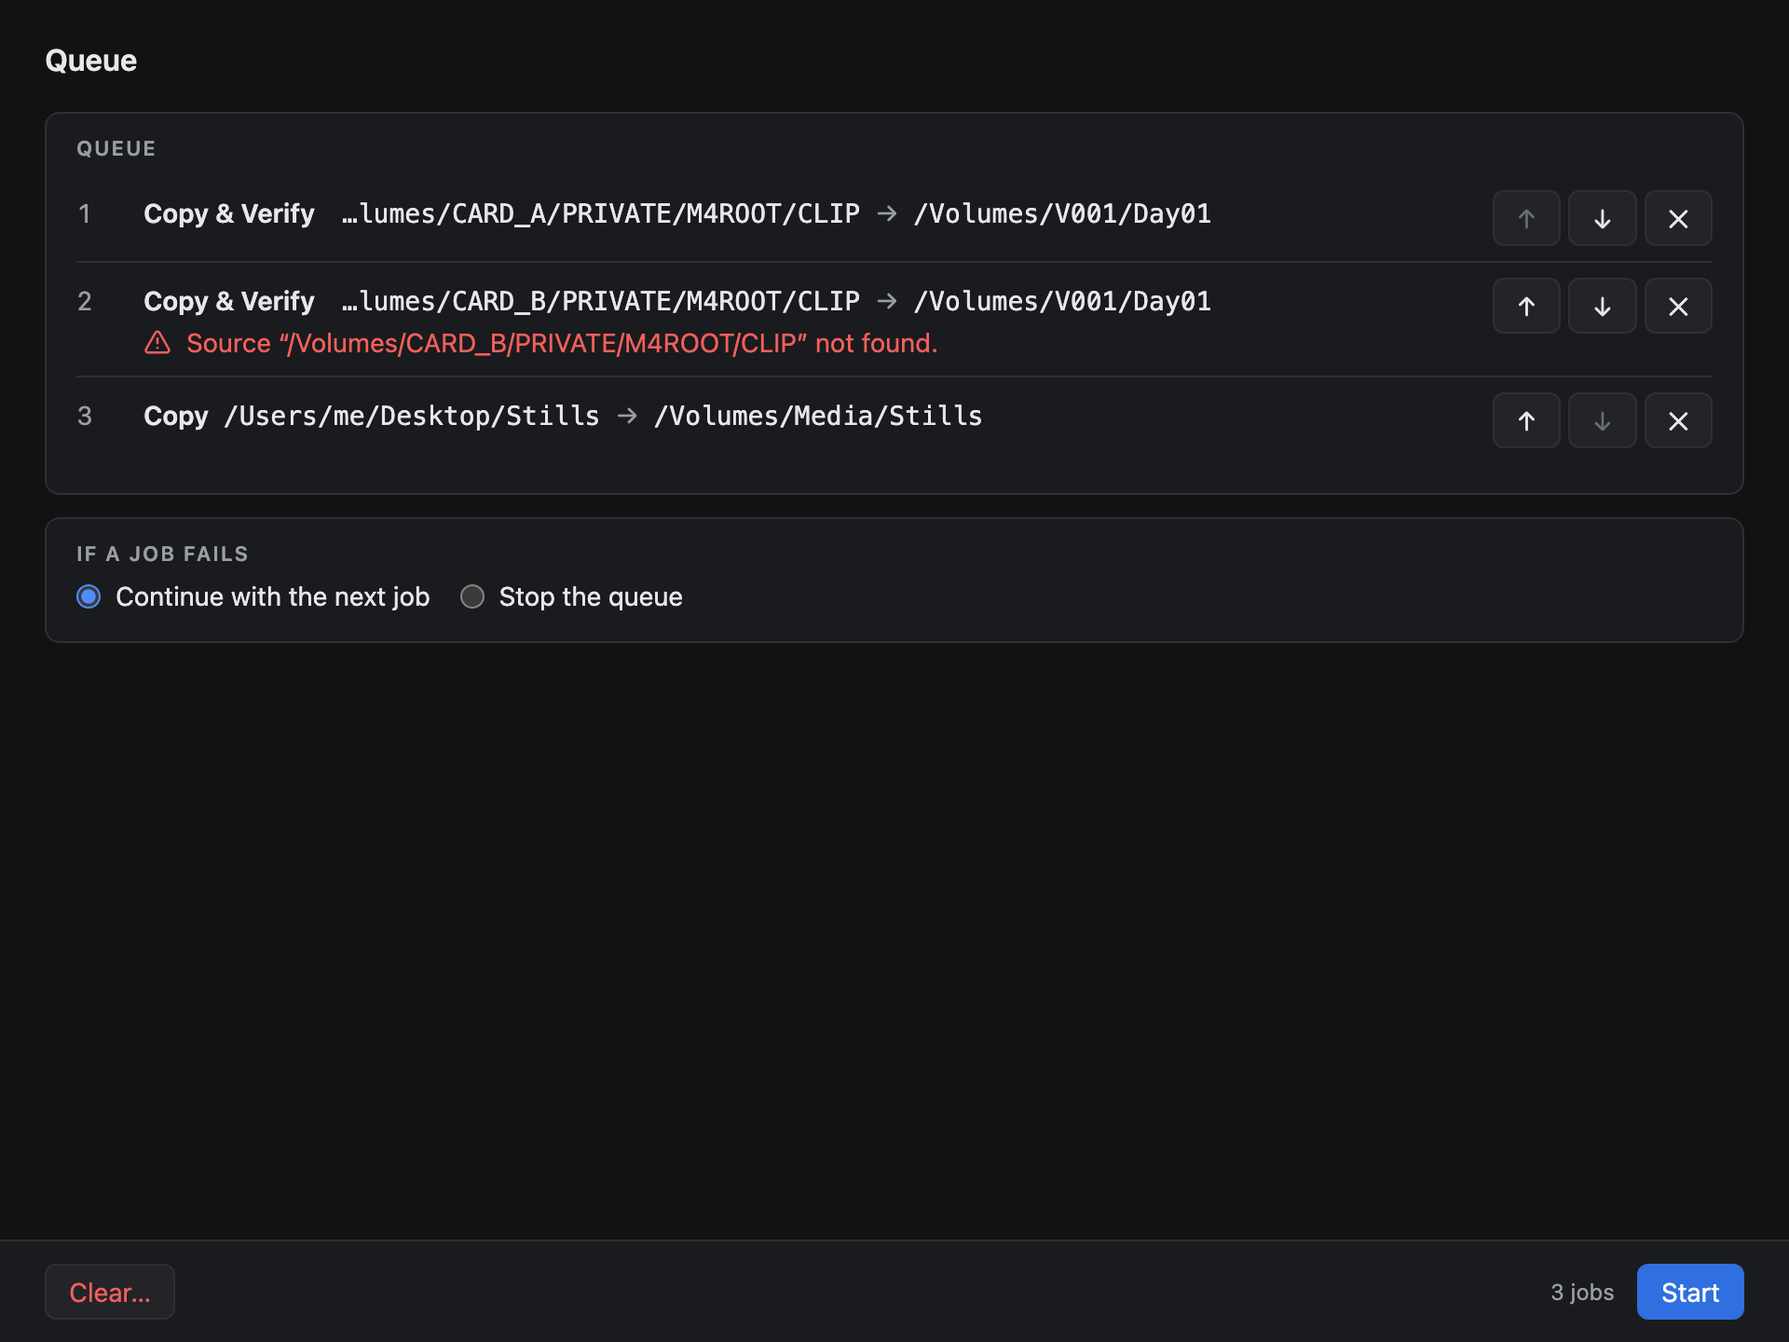
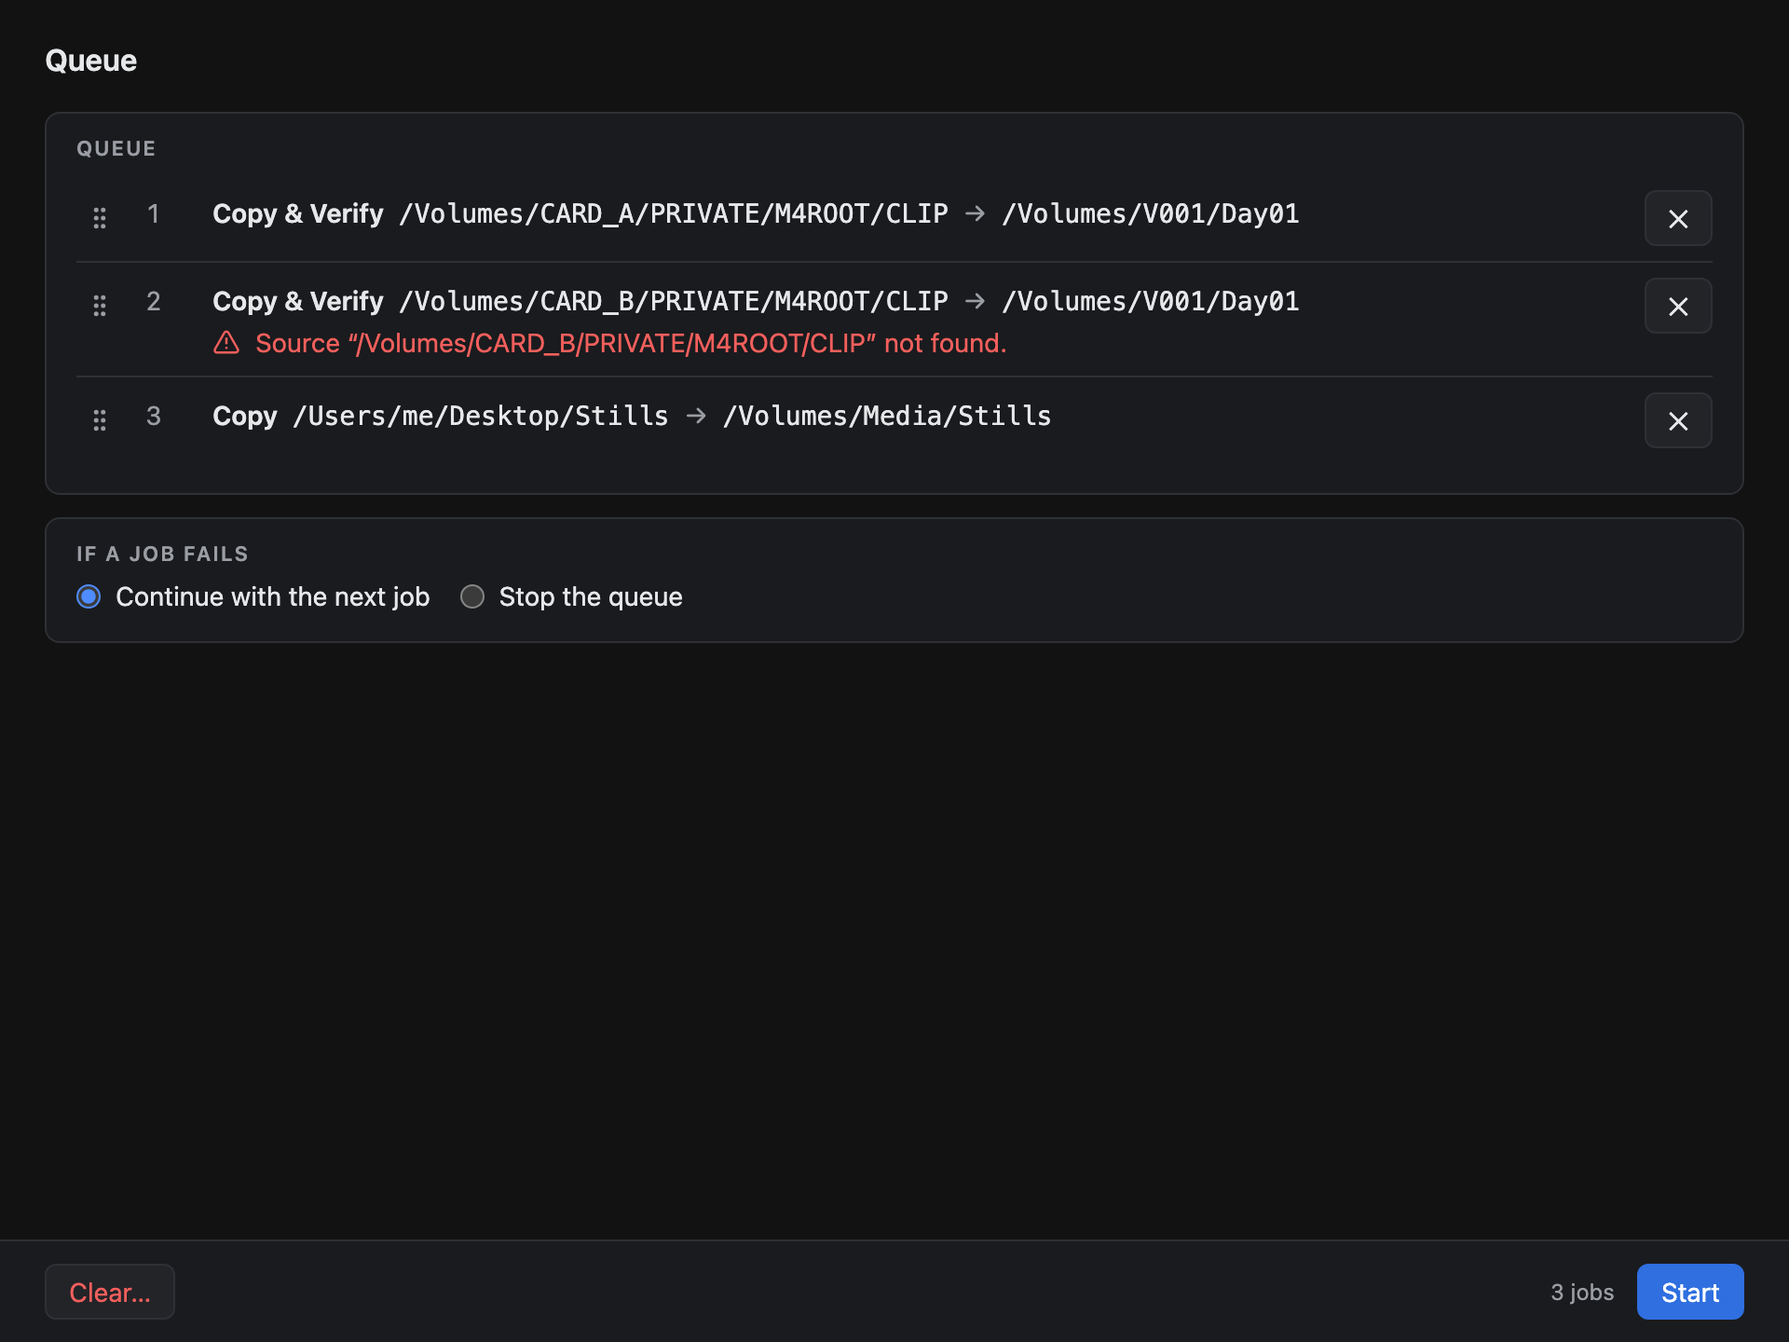
feat(queue): reorder jobs by dragging
Each queued job has a grip: dragging it moves the job, the other jobs
making room, and dropping saves the order. The ↑/↓ buttons are gone. From
the keyboard (and VoiceOver) the grip takes focus and ⌥↑ / ⌥↓ moves the
job; its new place is announced. Built on pointer events, so Tauri's own
file drop can't get in the way; help tags hide while a job is carried.

Closes #205

Changed region(s): [[0.0625, 0.2188, 0.7188, 0.3438], [0.0938, 0.1562, 0.7188, 0.1875]]

diff --git a/ui/src/components/QueueScreen.svelte b/ui/src/components/QueueScreen.svelte
@@ -60,14 +60,77 @@
     }
   }
 
-  /** Moves a job and keeps the focus on it, in its new row (for the keyboard and VoiceOver). */
+  /** What VoiceOver says after a move (#205). */
+  let announced = $state("");
+
+  /** Moves a job and keeps the focus on its grip, in its new row (for the keyboard and
+   *  VoiceOver), and says where it went. */
   async function move(from: number, to: number) {
     if (!(await byPlace(() => api.moveInQueue(from, to)))) return;
     await tick();
-    const row = document.querySelectorAll<HTMLElement>(".job")[to];
-    const buttons = [...(row?.querySelectorAll<HTMLButtonElement>("button") ?? [])];
-    const same = buttons[to > from ? 1 : 0];
-    (same && !same.disabled ? same : buttons.find((b) => !b.disabled))?.focus();
+    document.querySelectorAll<HTMLElement>("[data-grip]")[to]?.focus();
+    announced = t("queue.moved", { position: to + 1, count });
+  }
+
+  /** A row being dragged by its grip (#205): where it started, how far it went, where it
+   *  would land, and the rows as they were laid out when it started. */
+  type Drag = { from: number; startY: number; dy: number; to: number; rows: DOMRect[]; started: boolean };
+  let drag: Drag | null = $state(null);
+
+  /** Pixels a press moves before it's a drag, not a click. */
+  const SLOP = 4;
+
+  function grab(event: PointerEvent, from: number) {
+    if (event.button !== 0 || count < 2) return;
+    (event.currentTarget as HTMLElement).setPointerCapture?.(event.pointerId);
+    const rows = [...document.querySelectorAll<HTMLElement>(".job")].map((row) => row.getBoundingClientRect());
+    drag = { from, startY: event.clientY, dy: 0, to: from, rows, started: false };
+  }
+
+  function follow(event: PointerEvent) {
+    if (!drag) return;
+    const dy = event.clientY - drag.startY;
+    const { from, rows } = drag;
+    // It lands past every row whose middle its own middle has passed.
+    const middle = (rows[from].top + rows[from].bottom) / 2 + dy;
+    let to = from;
+    rows.forEach((row, j) => {
+      const m = (row.top + row.bottom) / 2;
+      if (j < from && middle < m) to = Math.min(to, j);
+      if (j > from && middle > m) to = Math.max(to, j);
+    });
+    drag = { ...drag, dy, to, started: drag.started || Math.abs(dy) > SLOP };
+  }
+
+  async function drop() {
+    const done = drag;
+    drag = null;
+    if (done?.started && done.to !== done.from) await move(done.from, done.to);
+  }
+
+  /** How far row `j` is shifted while another is dragged over it, or the dragged row itself. */
+  function shift(j: number): number {
+    if (!drag?.started) return 0;
+    const { from, to, dy, rows } = drag;
+    if (j === from) return dy;
+    const height = rows[from].height;
+    if (from < to && j > from && j <= to) return -height;
+    if (to < from && j >= to && j < from) return height;
+    return 0;
+  }
+
+  /** ⌥↑ / ⌥↓ move the job; Esc lets go of a drag. */
+  function key(event: KeyboardEvent, i: number) {
+    if (event.key === "Escape" && drag) {
+      event.preventDefault();
+      drag = null;
+      return;
+    }
+    if (!event.altKey) return;
+    const to = event.key === "ArrowUp" ? i - 1 : event.key === "ArrowDown" ? i + 1 : -1;
+    if (to < 0 || to >= count) return;
+    event.preventDefault();
+    void move(i, to);
   }
 
   async function clear() {
@@ -91,9 +154,27 @@
       </EmptyState>
     {:else}
       <!-- role="list": Safari drops list semantics when the bullets are hidden. -->
-      <ol class="jobs" role="list" aria-label={t("queue.jobs")}>
+      <ol class="jobs" class:dragging={drag?.started} role="list" aria-label={t("queue.jobs")}>
         {#each queue.jobs as job, i (i)}
-          <li class="job">
+          <li
+            class="job"
+            class:dragged={drag?.started && drag.from === i}
+            class:settling={drag?.started && drag.from !== i}
+            style:transform={shift(i) ? `translateY(${shift(i)}px)` : undefined}
+          >
+            <span class="grip">
+              <Button
+                data-grip
+                icon="grip"
+                aria-label={t("queue.grip", { number: i + 1 })}
+                help={t("queue.gripHelp")}
+                onpointerdown={(e: PointerEvent) => grab(e, i)}
+                onpointermove={follow}
+                onpointerup={drop}
+                onpointercancel={() => (drag = null)}
+                onkeydown={(e: KeyboardEvent) => key(e, i)}>{""}</Button
+              >
+            </span>
             <span class="number">{i + 1}</span>
             <div class="what">
               {#if job.supported && job.kind === "check"}
@@ -115,13 +196,12 @@
               {#if job.lastError}<Notice tone="danger">{say(job.lastError)}</Notice>{/if}
             </div>
             <div class="buttons">
-              <Button aria-label={t("queue.moveUp", { number: i + 1 })} disabled={i === 0} onclick={() => move(i, i - 1)}>↑</Button>
-              <Button aria-label={t("queue.moveDown", { number: i + 1 })} disabled={i === count - 1} onclick={() => move(i, i + 1)}>↓</Button>
               <Button aria-label={t("queue.remove", { number: i + 1 })} onclick={() => byPlace(() => api.removeFromQueue(i))}>✕</Button>
             </div>
           </li>
         {/each}
       </ol>
+      <p class="visually-hidden" aria-live="polite">{announced}</p>
     {/if}
   </Section>
 
@@ -173,7 +253,7 @@
 
   .job {
     display: grid;
-    grid-template-columns: 24px minmax(0, 1fr) auto;
+    grid-template-columns: auto 24px minmax(0, 1fr) auto;
     gap: var(--space-3);
     align-items: start;
     padding: var(--space-2) 0;
@@ -181,6 +261,42 @@
 
   .job + .job {
     border-top: 1px solid var(--border);
+  }
+
+  /* The row being dragged follows the pointer, above the others; they make room for it. */
+  .job.dragged {
+    position: relative;
+    z-index: 1;
+    background: var(--surface-raised);
+    box-shadow: 0 4px 16px rgb(0 0 0 / 0.35);
+  }
+
+  .job.settling {
+    transition: transform 120ms ease;
+  }
+
+  /* A quiet handle: the icon alone, an outline when the pointer or the focus is on it. */
+  .grip :global(.button) {
+    background: none;
+    border-color: transparent;
+    color: var(--text-muted);
+    padding: 0 var(--space-1);
+    cursor: grab;
+    touch-action: none;
+  }
+
+  .grip :global(.button:hover) {
+    border-color: var(--border);
+    color: var(--text);
+  }
+
+  .job.dragged .grip :global(.button) {
+    cursor: grabbing;
+  }
+
+  /* No help tags while a job is carried: they'd sit over the rows it moves through. */
+  .jobs.dragging :global(.tip) {
+    display: none;
   }
 
   .number {

diff --git a/ui/src/components/QueueScreen.test.ts b/ui/src/components/QueueScreen.test.ts
@@ -49,13 +49,63 @@ describe("QueueScreen", () => {
     expect(within(row).queryByText("→")).toBeNull();
   });
 
-  test("jobs move and are removed", async () => {
-    const { api } = show();
-    await fireEvent.click(screen.getByRole("button", { name: "Move job 1 down" }));
-    expect(api.moveInQueue).toHaveBeenCalledWith(0, 1);
+  // #205: jobs are reordered by dragging their grip, or with ⌥↑ / ⌥↓ on it.
+  const three = () =>
+    queueView({
+      jobs: [
+        queuedJob(),
+        queuedJob({ source: raw("/Volumes/CARD_B/DCIM"), verify: false }),
+        queuedJob({ source: raw("/Volumes/CARD_C/DCIM") }),
+      ],
+    });
+
+  /** Rows 40 px tall, one under the other, as the window lays them out. */
+  function laidOut() {
+    document.querySelectorAll<HTMLElement>(".job").forEach((row, i) => {
+      row.getBoundingClientRect = () => ({ top: i * 40, bottom: i * 40 + 40, height: 40, left: 0, right: 600, width: 600, x: 0, y: i * 40, toJSON: () => ({}) });
+    });
+  }
+
+  test("a job is dragged by its grip to another place; no arrow buttons (#205)", async () => {
+    const { api } = show(three());
+    laidOut();
+    expect(screen.queryByRole("button", { name: /up$|down$/ })).toBeNull();
+    const grip = screen.getByRole("button", { name: "Move job 1" });
+    await fireEvent.pointerDown(grip, { button: 0, pointerId: 1, clientY: 20 });
+    await fireEvent.pointerMove(grip, { pointerId: 1, clientY: 60 });
+    await fireEvent.pointerMove(grip, { pointerId: 1, clientY: 105 });
+    await fireEvent.pointerUp(grip, { pointerId: 1, clientY: 105 });
+    expect(api.moveInQueue).toHaveBeenCalledWith(0, 2);
     await fireEvent.click(screen.getByRole("button", { name: "Remove job 2" }));
     expect(api.removeFromQueue).toHaveBeenCalledWith(1);
-    expect(screen.getByRole("button", { name: "Move job 1 up" })).toHaveProperty("disabled", true);
+  });
+
+  test("a press without a drag, or a drag let go of with Esc, moves nothing (#205)", async () => {
+    const { api } = show(three());
+    laidOut();
+    const grip = screen.getByRole("button", { name: "Move job 1" });
+    await fireEvent.pointerDown(grip, { button: 0, pointerId: 1, clientY: 20 });
+    await fireEvent.pointerUp(grip, { pointerId: 1, clientY: 21 });
+    await fireEvent.pointerDown(grip, { button: 0, pointerId: 1, clientY: 20 });
+    await fireEvent.pointerMove(grip, { pointerId: 1, clientY: 105 });
+    await fireEvent.keyDown(grip, { key: "Escape" });
+    await fireEvent.pointerUp(grip, { pointerId: 1, clientY: 105 });
+    expect(api.moveInQueue).not.toHaveBeenCalled();
+  });
+
+  test("⌥↓ and ⌥↑ on a grip move the job; the focus follows it, and it's said (#205)", async () => {
+    const { api } = show(three());
+    const grip = screen.getByRole("button", { name: "Move job 1" });
+    expect(helpOf(grip)).toBe("Drag it, or press ⌥↑ or ⌥↓.");
+    grip.focus();
+    await fireEvent.keyDown(grip, { key: "ArrowDown", altKey: true });
+    expect(api.moveInQueue).toHaveBeenCalledWith(0, 1);
+    await waitFor(() => expect(document.activeElement).toBe(screen.getByRole("button", { name: "Move job 2" })));
+    await screen.findByText("Job moved to position 2 of 3.");
+    await fireEvent.keyDown(screen.getByRole("button", { name: "Move job 1" }), { key: "ArrowUp", altKey: true });
+    expect(api.moveInQueue).toHaveBeenCalledTimes(1); // job 1 has no place above it
+    await fireEvent.keyDown(screen.getByRole("button", { name: "Move job 2" }), { key: "ArrowDown" });
+    expect(api.moveInQueue).toHaveBeenCalledTimes(1); // an arrow alone scrolls, it doesn't move
   });
 
   test("a queued mirror whose preset was deleted says so", () => {
@@ -64,24 +114,14 @@ describe("QueueScreen", () => {
     expect(screen.queryByText("A job for a newer Secopy")).toBeNull();
   });
 
-  test("a move that fails leaves the focus where it was", async () => {
+  test("a move that fails says why and leaves the focus where it was", async () => {
     const { api } = show();
     api.moveInQueue.mockRejectedValueOnce(new Error("The queue is running."));
-    const down = screen.getByRole("button", { name: "Move job 1 down" });
-    down.focus();
-    await fireEvent.click(down);
+    const grip = screen.getByRole("button", { name: "Move job 1" });
+    grip.focus();
+    await fireEvent.keyDown(grip, { key: "ArrowDown", altKey: true });
     await screen.findByText("The queue is running.");
-    expect(document.activeElement).toBe(down);
-  });
-
-  test("for VoiceOver: a list, and focus follows a moved job", async () => {
-    show();
-    expect(screen.getByRole("list")).toBeTruthy();
-    await fireEvent.click(screen.getByRole("button", { name: "Move job 1 down" }));
-    // Job 1 is now job 2, the last: its Move down is off, so Move up takes the focus.
-    await waitFor(() =>
-      expect(document.activeElement).toBe(screen.getByRole("button", { name: "Move job 2 up" })),
-    );
+    expect(document.activeElement).toBe(grip);
   });
 
   test("Clear asks first", async () => {

diff --git a/ui/src/lib/ui/Icon.svelte b/ui/src/lib/ui/Icon.svelte
@@ -1,5 +1,5 @@
 <script lang="ts" module>
-  export type IconName = "settings" | "chevron-left" | "check" | "x" | "alert" | "info" | "list";
+  export type IconName = "settings" | "chevron-left" | "check" | "x" | "alert" | "info" | "list" | "grip";
 </script>
 
 <script lang="ts">
@@ -43,6 +43,13 @@
     <path d="M8 12h13" />
     <path d="M8 18h13" />
     <path d="M8 6h13" />
+  {:else if name === "grip"}
+    <circle cx="9" cy="12" r="1" />
+    <circle cx="9" cy="5" r="1" />
+    <circle cx="9" cy="19" r="1" />
+    <circle cx="15" cy="12" r="1" />
+    <circle cx="15" cy="5" r="1" />
+    <circle cx="15" cy="19" r="1" />
   {:else if name === "info"}
     <circle cx="12" cy="12" r="10" />
     <path d="M12 16v-4" />

diff --git a/docs/rfd/0001-secopy.md b/docs/rfd/0001-secopy.md
@@ -694,3 +694,4 @@ The stack meets these constraints:
 | 2026-10-04 | **Documentation review for 1.0** (#190, with Fable 5.1 and GPT-6 Astra): the sections above describe Secopy as built. Clarifications to earlier entries: the per-file speed and ETA of 2026-09-26 became bytes and a bar per active file, files up to 8 MiB grouped by size (§5.3); Paranoid compares the XXH128 of both sides, not bytes (#178); OS fast paths and benchmarks were never built (§7.2, §9); the 0.x series was the beta. |
 | 2026-10-04 | **Code review for 1.0** (#192, with Fable 5.1 and GPT-6.1 Sol High): ASC MHL writes on file systems that can't sync a directory (only a device error fails it, as for checksum files); free space from 64-bit `statfs` counts (`statvfs`'s wrapped past 16 TiB); Verify reads a file once when two checksum files spell it in different Unicode forms, and leaves out a second report of the same second; text and JSON reports are saved as a pair; the JSON report has `format: 1` and a mirror's `mode` is `mirror`; a data file that can't be read just now is left as it is and not saved over (only a damaged one is set aside); the CLI's `--check` writes `--report` and refuses copy options, and `--archive-days` starts at 1. From GPT-6.1 Sol: nothing is written through a symlinked directory in the destination (a link into the source let Overwrite replace a source file); checksum files and reports are written whole under a temporary name, then named; ASC MHL reads `<previousPath>` as the standard has it, compares history names in one Unicode form, and an undo removes a history brought from the source; a mirror's failed rename is said and the run isn't Complete; reports carry ASC MHL details and what Cancel's removal did; a queue change and Start don't interleave; paths keep spaces at their end; the CLI exits 1 for a differing file left as it was and refuses copy options with `--mirror`; the mirror preview lists every change. Declined: exFAT's check-then-rename fallback (no exclusive rename there; Secopy's own jobs are kept apart by the partial file's lock), a report save that fails leaving the copy Complete (decision of 2026-09-30), cancelling a superseded scan, and larger refactors. |
 | 2026-10-05 | **"Not found"** (#199): a directory that isn't there is said one way everywhere, its role then its path: Source / Origin / Destination / Directory “path” not found. (es: “… no encontrado”); never "not connected" or "isn't there any more", whether its drive is unplugged or the directory deleted. Keys a saved queue may hold (`errors.source.gone`, `errors.source.notConnected`) stay in the catalogs with the new wording. A mirror's error is cleared when another mirror is selected. |
+| 2026-10-05 | **Queue: drag to reorder** (#205): each job has a grip; dragging it moves the job, the others making room, and dropping saves the order. The ↑/↓ buttons are gone; from the keyboard (and VoiceOver) the grip takes focus and ⌥↑ / ⌥↓ moves the job, announced. Built on pointer events, not HTML drag and drop, which Tauri's own file drop can get in the way of. |

diff --git a/docs/testing/macos-app-checklist.md b/docs/testing/macos-app-checklist.md
@@ -76,7 +76,8 @@ the `.dmg` with `xattr`; or build it with `npm run tauri build` from `ui/`. Then
     pauses and resumes; ⌘. asks to cancel; ⌘1–⌘4 switch tabs and open the Queue; Esc cancels
     Settings and leaves Copy presets.
 20. **VoiceOver.** With VoiceOver on (⌘F5), do a whole copy with the keyboard: every control
-    is read with its name, each new screen reads its title, and the end is announced.
+    is read with its name, each new screen reads its title, and the end is announced. In the
+    Queue, ⌥↓ on a job's grip moves it, and its new place is read.
 21. **Drops.** Drop a card (or a directory on it) on From: Source shows it with its files
     and size. Drop a directory on To: it becomes the destination, not the source.
 22. **Closing and quitting.** With no job running, the red button closes the window and the
@@ -86,7 +87,7 @@ the `.dmg` with `xattr`; or build it with `npm run tauri build` from `ui/`. Then
 
 ## Queue
 
-23. **Queue.** Set up three copies (two cards, one directory) with Add to queue; reorder them;
+23. **Queue.** Set up three copies (two cards, one directory) with Add to queue; drag one by its grip to another place (the others make room), and move one with ⌥↑ / ⌥↓;
     Start the queue with the window in the background: one notification at the end; the queue
     summary opens each job's summary; the queue is empty.
 24. **Queue failures.** Queue a card, take it out, start the queue with "Continue with the next

diff --git a/docs/design/design-system.md b/docs/design/design-system.md
@@ -83,7 +83,7 @@ Components use tokens only, never raw colours or sizes.
 | `Stats` | Figures in one line, "3 files · 7.0 GB written · took 0:06" |
 | `ProgressBar` | One phase's progress with speed and ETA |
 | `EmptyState` | What an empty part is for and how to fill it |
-| `Icon` | A few Lucide icons, always next to words |
+| `Icon` | A few Lucide icons, always next to words; the one exception is the Queue's drag grip, a quiet button with a label and a help tag |
 | `Hint` | A term that isn't clear on its own, explained on hover and keyboard focus: dotted underline, or an ⓘ mark with no term. `FormRow` (`hint`) and `Stats` items take one |
 | `Dialog` | A question over the screen: safe answer first and focused, the other on the right; Esc is the safe answer. `api.confirm` shows one through `ConfirmHost`; Export's choice of what goes in the file (`ExportDialog`) is another |
 | `IgnoreList` | A list of name patterns with a field to add one and a remove button per row (Settings, the preset editors, New copy's Also ignore) |

diff --git a/docs/user-guide.md b/docs/user-guide.md
@@ -216,8 +216,8 @@ Copies made by Secopy before 0.24 have `.xxh64` checksum files, which Verify doe
 
 **Add to queue** on Copy, Mirror or Verify adds the job. A copy keeps its source, destination
 and options as set up; a mirror runs its preset as it is at its turn; Settings (the ignore
-list, ASC MHL) are read when each job starts. On the Queue screen, reorder jobs with the
-arrows, remove them, **Clear…** them all (after asking), and choose what happens **if a job
+list, ASC MHL) are read when each job starts. On the Queue screen, reorder jobs by dragging
+them by their grip (⠿; or focus it and press ⌥↑ or ⌥↓), remove them, **Clear…** them all (after asking), and choose what happens **if a job
 fails**: continue with the next job or stop the queue. **Start** runs them one after another;
 each is checked when its turn comes, and one that can't start fails with its reason. A copy
 set to Overwrite replaces only the files it listed when it was queued; if others differ at its
